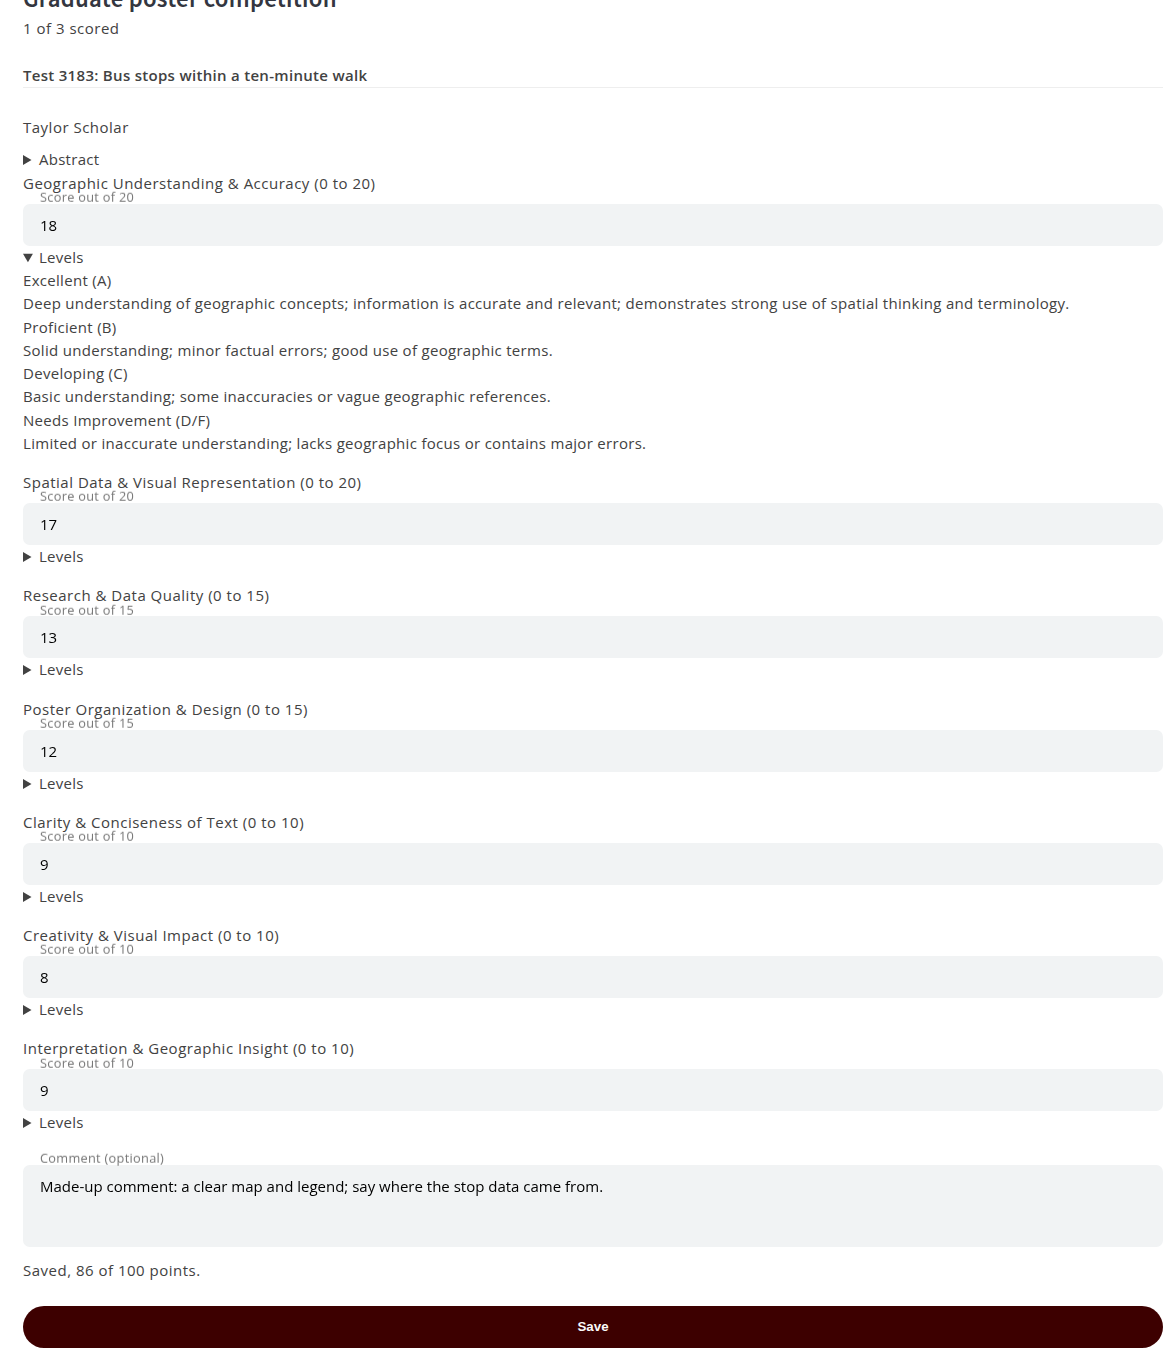
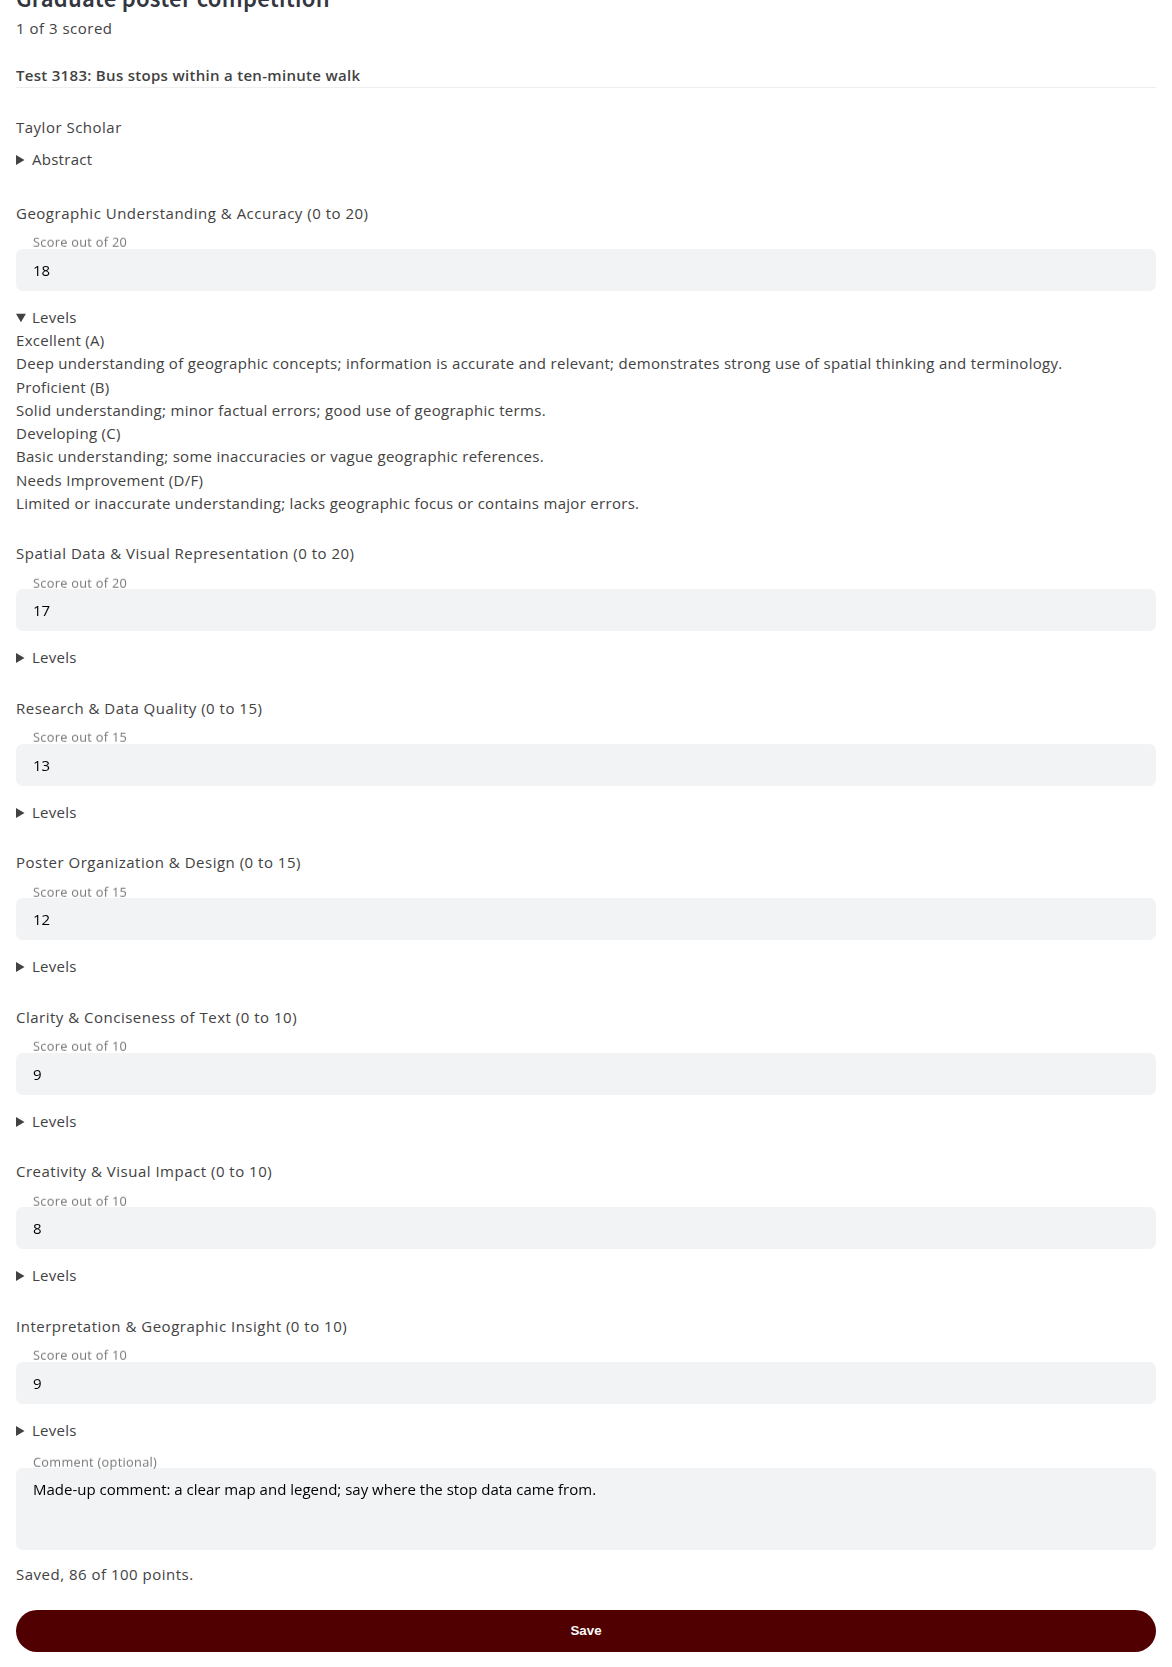
docs(gisday): Judging screenshots after the layout fixes (#3183)
Re-taken from a local run at e9ede76b7 (batch 123): the judge's page at 1280, 390 and
a new 360 px, saved and closed; the rubric editor; Judging results with one entry not
scored yet; and the Ask to judge window. The release note gains the 360 px row and its
preview and results descriptions match the new images.

Changed region(s): [[0.0, 0.1848, 0.9215, 0.893], [0.0, 0.9238, 1.0, 1.0], [0.0, 0.0, 0.3072, 0.154]]

diff --git a/docs/releases/unreleased/3183-judging.md b/docs/releases/unreleased/3183-judging.md
@@ -35,10 +35,11 @@ Every person below is made up, at example.com, and every image is from a local r
 | After: the poster rubric, started from the standard one (its first two of seven criteria) | ![The Geography Poster Presentation Rubric, with Geographic Understanding and Accuracy and Spatial Data and Visual Representation, 20 points each, each with four levels](../screenshots/3183-judging/after-rubrics.png) |
 | After: the session's Judging section, saved with Graduate posters and two judges | ![Judged competition Graduate poster competition, two made-up judges ticked, Judging closed unticked](../screenshots/3183-judging/after-session-judging.png) |
 | After: Email these speakers offers Ask to judge | ![The Email these speakers menu with Profile email, Session details, Ask for slides and Ask to judge](../screenshots/3183-judging/after-menu.png) |
-| After: Ask to judge's window, as it opens (nothing was sent) | ![Send judging links: the two made-up judges ticked, a copy each, and the prefilled subject and text](../screenshots/3183-judging/after-ask-to-judge-preview.png) |
+| After: Ask to judge's window, as it opens (nothing was sent) | ![Send judging emails: the two made-up judges ticked, a copy each, and the prefilled subject and text](../screenshots/3183-judging/after-ask-to-judge-preview.png) |
 | After: the same window at its end, the email as the first judge gets it | ![The email preview to the first made-up judge, with Cancel and Send 2 emails](../screenshots/3183-judging/after-ask-to-judge-preview-end.png) |
 | After: the judge's page, an entry with its criteria and the first criterion's levels | ![The Judging page: the graduate poster competition, 0 of 3 scored, an entry with seven criteria, each a score box](../screenshots/3183-judging/after-judge-page.png) |
 | After: the same at 390 px, a phone's width | ![The Judging page at phone width](../screenshots/3183-judging/after-judge-page-phone.png) |
+| After: the same at 360 px, a narrower phone | ![The Judging page at 360 px, every score box and Save inside the width](../screenshots/3183-judging/after-judge-page-phone-360.png) |
 | After: the entry scored and saved | ![The entry's seven scores and a comment, Saved, 86 of 100 points, 1 of 3 scored](../screenshots/3183-judging/after-judge-saved.png) |
-| After: Judging results once a second judge has scored the same entry | ![Judging results: each judge 1 scored, 2 to score; the scored entry first with 2 judges, average 85.5, totals 86 and 85](../screenshots/3183-judging/after-results.png) |
+| After: Judging results with two entries scored and one not | ![Judging results: one judge 2 scored, the other 1; the first entry with 2 judges, average 85.5, totals 86 and 85; the second with 1 judge, 75; the third, 0 judges, Not scored yet](../screenshots/3183-judging/after-results.png) |
 | After: Judging closed ticked, the judge's page again | ![Judging is closed for this competition. The scores shown greyed, with no Save](../screenshots/3183-judging/after-judging-closed.png) |
